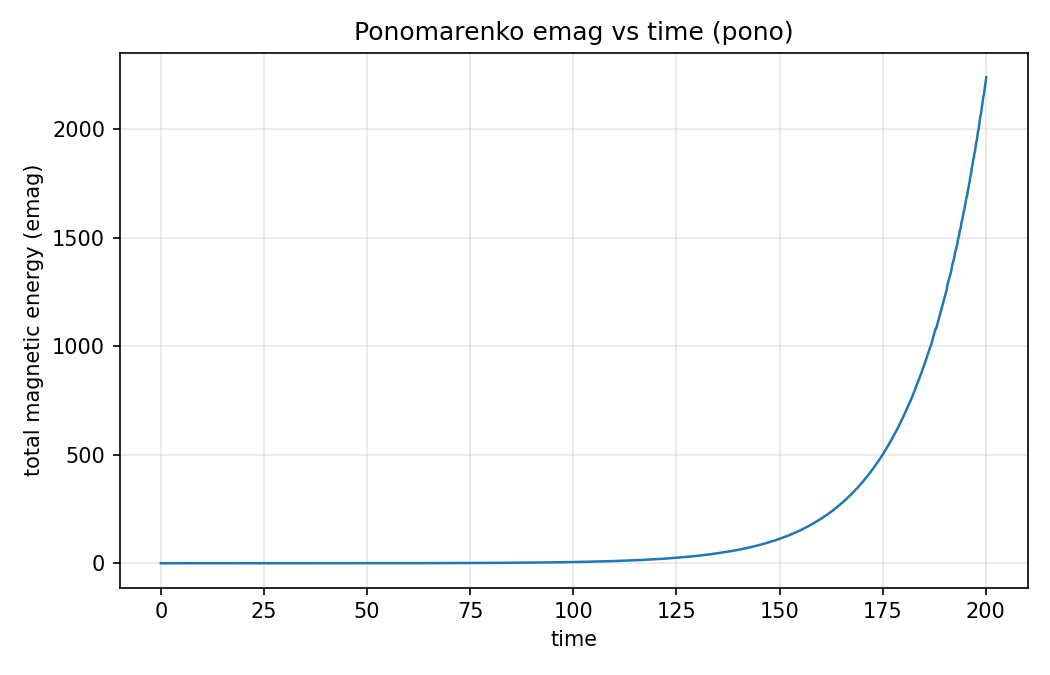
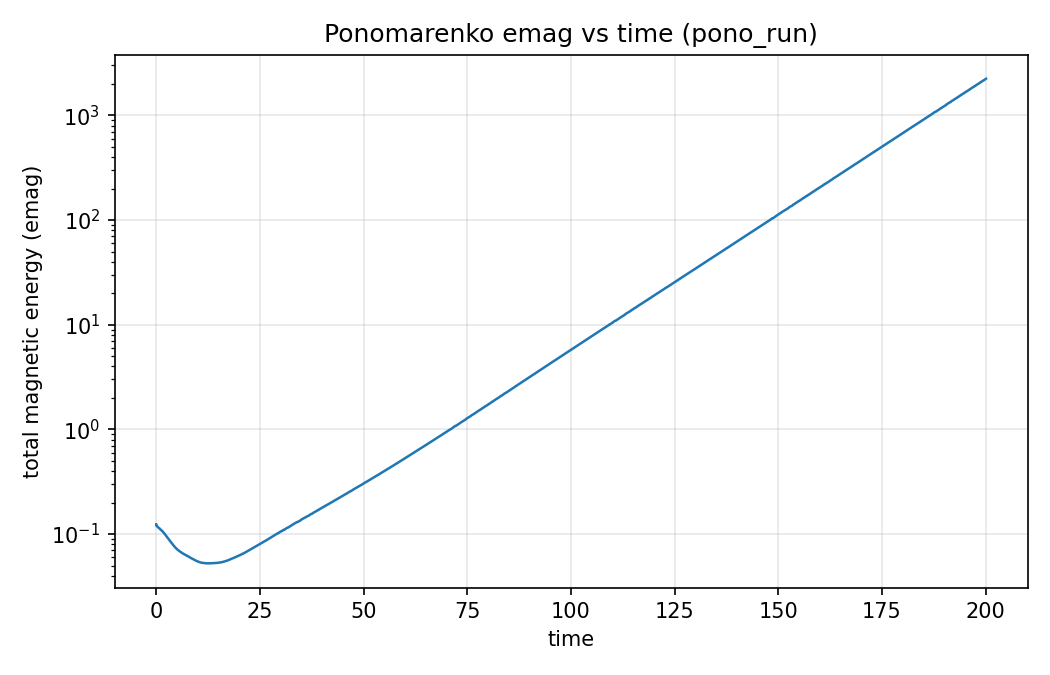
Default Ponomarenko emag plot to semilogy (log emag, linear time).
Previously log-y required --logy, so the saved figure was linear-linear.

diff --git a/scripts/plot_pono_emag_vs_time.py b/scripts/plot_pono_emag_vs_time.py
@@ -21,7 +21,11 @@ def main() -> None:
         help="path to run.log (default: positional or required)",
     )
     parser.add_argument("--out", type=Path, default=None)
-    parser.add_argument("--logy", action="store_true")
+    parser.add_argument(
+        "--linear-y",
+        action="store_true",
+        help="linear y axis (default: log emag)",
+    )
     args = parser.parse_args()
     if args.run_log is None:
         parser.error("run_log path required")
@@ -37,7 +41,7 @@ def main() -> None:
     ax.set_ylabel("total magnetic energy (emag)")
     ax.set_title(f"Ponomarenko emag vs time ({run_log.parent.name})")
     ax.grid(True, alpha=0.3)
-    if args.logy:
+    if not args.linear_y:
         ax.set_yscale("log")
     fig.tight_layout()
     fig.savefig(out, dpi=150)
